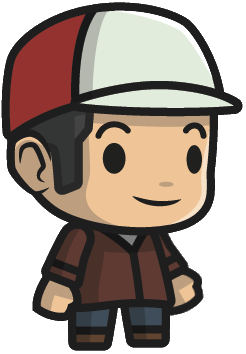
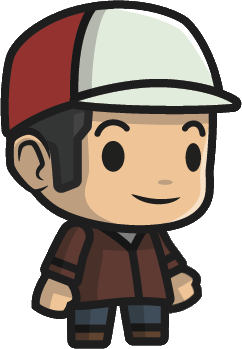
Running and idle animations implemented.

diff --git a/runnjump/core/src/com/mygdx/runnjump/screens/GameScreen.java b/runnjump/core/src/com/mygdx/runnjump/screens/GameScreen.java
@@ -24,6 +24,9 @@ import com.badlogic.gdx.utils.Array;
 import com.mygdx.runnjump.Runnjump;
 import com.mygdx.runnjump.game.Hud;
 import com.mygdx.runnjump.game.Player;
+import com.mygdx.runnjump.util.TextureManager;
+
+import java.util.ArrayList;
 
 public class GameScreen extends ScreenBase implements Screen, InputProcessor {
     //this will be the level screen.
@@ -38,12 +41,15 @@ public class GameScreen extends ScreenBase implements Screen, InputProcessor {
     OrthographicCamera orthographicCamera;
     Player player;
     float zoom;
-    Array<TextureAtlas.AtlasRegion> runningFrames;
+    float time =0f;
+    /*Array<TextureAtlas.AtlasRegion> runningFrames;
     Animation runningAnimation;
     float time = 0f;
     TextureRegion playerCurrentFrame;
-    float centerX, centerY;
-
+    float centerX, centerY;*/
+    int playerIdleLastFrame=0,playerRunLastFrame=0;
+    boolean backWardsIdle = false, backWardsRunning = false;
+    ArrayList<Texture> playerIdle, playerRunning;
     public GameScreen(Runnjump theGameO, int level) {
         super(theGameO);
         currentScreenId = Runnjump.ScreenEn.GAME;
@@ -81,7 +87,7 @@ public class GameScreen extends ScreenBase implements Screen, InputProcessor {
         TiledMapTileLayer visualLayer = (TiledMapTileLayer) tileMap.getLayers().get("secondLayer");
         hud = new Hud(new SpriteBatch(), theGame, skin);
 
-        player = new Player(new Sprite(new Texture("player\\Idle_000.png")),hud,layer,visualLayer);
+        player = new Player(hud,layer,visualLayer);
 
         layer.getHeight();
         player.getPlayerSprite().setPosition(5*32,79*32);//start position
@@ -94,13 +100,14 @@ public class GameScreen extends ScreenBase implements Screen, InputProcessor {
         tileMapHeight = properties.get("height", Integer.class);
         tileMapWidth = properties.get("width", Integer.class);
 
-
-        TextureAtlas playerRun = Runnjump.textureAtlasMap.get("player_running");
+        playerIdle = theGame.textureManager.getPlayerFrameSet("idle");
+        playerRunning = theGame.textureManager.getPlayerFrameSet("running");
+        /*TextureAtlas playerRun = Runnjump.textureAtlasMap.get("player_running");
         runningFrames = playerRun.findRegions("running");
         runningAnimation = new Animation(0.05f,runningFrames, Animation.PlayMode.LOOP);
         TextureRegion first = runningFrames.first();
         centerX = (Gdx.graphics.getWidth()-first.getRegionWidth());
-        centerY = (Gdx.graphics.getHeight()-first.getRegionHeight());
+        centerY = (Gdx.graphics.getHeight()-first.getRegionHeight());*/
 
     }
 
@@ -116,7 +123,37 @@ public class GameScreen extends ScreenBase implements Screen, InputProcessor {
         mapRenderer.setView(orthographicCamera);
         mapRenderer.render();
         mapRenderer.getBatch().begin();
-
+        time += delta;
+        if (player.isIdle() && time > 0.2f) {
+            player.setFrame(playerIdle.get(playerIdleLastFrame));
+            if (playerIdleLastFrame == playerIdle.size() - 1){
+                backWardsIdle=true;
+            }
+            if (playerIdleLastFrame==0){
+                backWardsIdle=false;
+            }
+            if (backWardsIdle){
+                playerIdleLastFrame--;
+            } else {
+                playerIdleLastFrame++;
+            }
+            time=0;
+        }
+        if (!player.isIdle() && time > 0.13f){
+            player.setFrame(playerRunning.get(playerRunLastFrame));
+            if (playerRunLastFrame==0){
+                backWardsRunning=false;
+            }
+            if (playerRunLastFrame == playerRunning.size()-1){//if at last element
+                backWardsRunning=true;
+            }
+            if (backWardsRunning){
+                playerRunLastFrame--;
+            } else {
+                playerRunLastFrame++;
+            }
+            time=0;
+        }
         player.draw(mapRenderer.getBatch());
         mapRenderer.getBatch().end();
 

diff --git a/runnjump/core/src/com/mygdx/runnjump/game/Player.java b/runnjump/core/src/com/mygdx/runnjump/game/Player.java
@@ -3,6 +3,7 @@ package com.mygdx.runnjump.game;
 import com.badlogic.gdx.Gdx;
 import com.badlogic.gdx.Input;
 import com.badlogic.gdx.InputProcessor;
+import com.badlogic.gdx.graphics.Texture;
 import com.badlogic.gdx.graphics.g2d.Animation;
 import com.badlogic.gdx.graphics.g2d.Batch;
 import com.badlogic.gdx.graphics.g2d.Sprite;
@@ -13,12 +14,15 @@ import com.badlogic.gdx.math.Vector2;
 import com.badlogic.gdx.utils.Array;
 import com.mygdx.runnjump.Runnjump;
 
+import java.util.ArrayList;
+import java.util.TreeMap;
+
 public class Player implements InputProcessor {
 
     //movement velocity
     private Vector2 velocity = new Vector2();
     private float speedX = 530;
-    private float speedY = 200;
+    private float speedY = 230;
     private float gravity = 98f;
     private TiledMapTileLayer collisionLayer;
     private TiledMapTileLayer visualLayer;
@@ -27,7 +31,7 @@ public class Player implements InputProcessor {
     boolean canJump;
     float sizeX,sizeY;
     Sprite playerSprite;
-
+    boolean facingRight = true;
 
     Hud hud;
 
@@ -44,8 +48,8 @@ public class Player implements InputProcessor {
         return score;
     }
 
-    public Player(Sprite sprite, Hud hud, TiledMapTileLayer collisionLayer, TiledMapTileLayer visualLayer){
-        this.playerSprite = sprite;
+    public Player( Hud hud, TiledMapTileLayer collisionLayer, TiledMapTileLayer visualLayer){
+        this.playerSprite = new Sprite(new Texture("player\\Idle_000.png"));
         this.collisionLayer = collisionLayer;
         this.visualLayer = visualLayer;
         playerSprite.setSize(30*2,30*3);//2 by 3 tiles size
@@ -54,12 +58,20 @@ public class Player implements InputProcessor {
         this.hearts =3;
         this.goldKeyAcquired = false;
         this.hud = hud;
-
-
     }
 
-    public void draw(Batch batch) {
+
+    public void setFrame(Texture texture){
+        playerSprite.setTexture(texture);
+    }
+    public void draw(Batch batch){
+        update(Gdx.graphics.getDeltaTime());
+        playerSprite.draw(batch);
+    }
+
+    public void draw(Batch batch,Texture frame) {
         update(Gdx.graphics.getDeltaTime());//updates before drawingl) {
+        playerSprite.setTexture(frame);
         playerSprite.draw(batch);
     }
 
@@ -226,9 +238,17 @@ public class Player implements InputProcessor {
                 break;
             case Input.Keys.D:
                 velocity.x = speedX;
+                if (!facingRight) {
+                    playerSprite.flip(true, false);
+                    facingRight=true;
+                }
                 break;
             case Input.Keys.A:
                 velocity.x = -speedX;
+                if(facingRight){
+                    playerSprite.flip(true, false);
+                    facingRight=false;
+                }
                 break;
 
         }
@@ -282,6 +302,13 @@ public class Player implements InputProcessor {
 
     public boolean isRunning() {
         if ((velocity.x >0.25f || velocity.x < -0.25f)&&(velocity.y < 0.25f&&velocity.y>-0.25)){
+            return true;
+        }
+        return false;
+    }
+
+    public boolean isIdle() {
+        if (!isRunning()){
             return true;
         }
         return false;

diff --git a/runnjump/core/src/com/mygdx/runnjump/util/TextureManager.java b/runnjump/core/src/com/mygdx/runnjump/util/TextureManager.java
@@ -1,16 +1,43 @@
 package com.mygdx.runnjump.util;
 
+import com.badlogic.gdx.Gdx;
 import com.badlogic.gdx.graphics.Texture;
+import com.badlogic.gdx.utils.Disposable;
 
 import java.util.ArrayList;
 import java.util.Random;
 import java.util.TreeMap;
 
-public class TextureManager {
-    public TreeMap<String, ArrayList<Texture>> playerFrames;
+public class TextureManager implements Disposable {
+    private TreeMap<String, ArrayList<Texture>> playerFrames;
     Random random;
     public TextureManager() {
         playerFrames = new TreeMap<>();
         random = new Random();
+    }
+
+    public void addPlayerFrameSet(String name,String path, int number){
+        ArrayList<Texture> textures = new ArrayList<>(); //texture paths must be of the  format NAME_0 + number.png)
+        for(int i = 0; i < number; i++){
+            if (i<=9){
+                textures.add(new Texture(Gdx.files.internal(path + "00" + String.valueOf(i) + ".png")));
+            } else {
+                textures.add(new Texture(Gdx.files.internal(path +"0"+ i + ".png")));
+            }
+        }
+        playerFrames.put(name, textures);
+    }
+
+    public ArrayList<Texture> getPlayerFrameSet(String name){
+        return playerFrames.get(name);
+    }
+
+    @Override
+    public void dispose() {
+        for (ArrayList<Texture> textureArray:playerFrames.values()) {
+            for(Texture texture: textureArray){
+                texture.dispose();
+            }
+        }
     }
 }

diff --git a/runnjump/core/src/com/mygdx/runnjump/screens/LoadingScreen.java b/runnjump/core/src/com/mygdx/runnjump/screens/LoadingScreen.java
@@ -4,16 +4,24 @@ import com.badlogic.gdx.Gdx;
 import com.badlogic.gdx.Screen;
 import com.badlogic.gdx.graphics.g2d.TextureAtlas;
 import com.mygdx.runnjump.Runnjump;
+import com.mygdx.runnjump.util.TextureManager;
 
 public class LoadingScreen extends ScreenBase implements Screen {
 
     public LoadingScreen(Runnjump theGameO) {
         super(theGameO);
     }
-    private void loadGraphics(){
-        TextureAtlas playerRunning = new TextureAtlas(Gdx.files.internal("player\\runningCharSet.atlas"));
 
-        Runnjump.textureAtlasMap.put("player_running", playerRunning);
+    private void loadPlayer(){
+        //idle
+        theGame.textureManager.addPlayerFrameSet("idle","player\\Idle_",12);
+        theGame.textureManager.addPlayerFrameSet("running","player\\Running_",12);
+    }
+    private void loadGraphics(){
+        //TextureAtlas playerRunning = new TextureAtlas(Gdx.files.internal("player\\runningCharSet.atlas"));
+
+        //Runnjump.textureAtlasMap.put("player_running", playerRunning);
+        loadPlayer();
     }
 
     private void loadSoundFX(){
@@ -23,6 +31,7 @@ public class LoadingScreen extends ScreenBase implements Screen {
         buttonClickFx[2] = "ui_button_simple_click_03.wav";
         buttonClickFx[3] = "ui_button_simple_click_04.wav";
         theGame.soundManager.addSoundSet("menu_button_click", buttonClickFx);
+
 
 
     }

diff --git a/runnjump/core/src/com/mygdx/runnjump/Runnjump.java b/runnjump/core/src/com/mygdx/runnjump/Runnjump.java
@@ -19,6 +19,7 @@ import com.mygdx.runnjump.screens.MenuScreen;
 import com.mygdx.runnjump.util.MusicManager;
 import com.mygdx.runnjump.util.SoundHandler;
 import com.mygdx.runnjump.util.SoundManager;
+import com.mygdx.runnjump.util.TextureManager;
 
 import java.util.TreeMap;
 
@@ -27,6 +28,7 @@ public class Runnjump extends Game {
 	//Texture campaignBt,survivalBt, highScoresBt;
 	public SoundManager soundManager;
 	public MusicManager musicManager;
+	public TextureManager textureManager;
 	public static TreeMap<String, TextureAtlas> textureAtlasMap;
 
 	public enum ScreenEn {
@@ -54,6 +56,7 @@ public class Runnjump extends Game {
 		loadingScreen = new LoadingScreen(this);
 		soundManager = new SoundManager();
 		musicManager = new MusicManager();
+		textureManager = new TextureManager();
 		textureAtlasMap = new TreeMap<>();
 		setScreen(loadingScreen);
 		Drawable soundOnIcon;

diff --git a/runnjump/core/src/com/mygdx/runnjump/util/SoundManager.java b/runnjump/core/src/com/mygdx/runnjump/util/SoundManager.java
@@ -4,12 +4,13 @@ import com.badlogic.gdx.Gdx;
 import com.badlogic.gdx.audio.Music;
 import com.badlogic.gdx.audio.Sound;
 import com.badlogic.gdx.files.FileHandle;
+import com.badlogic.gdx.utils.Disposable;
 
 import java.util.ArrayList;
 import java.util.Random;
 import java.util.TreeMap;
 
-public class SoundManager {
+public class SoundManager implements Disposable {
     //This class should be a singleton
     //Pass reference of this class to every screen.
     private TreeMap<String,Sound> soundMap;
@@ -55,7 +56,7 @@ public class SoundManager {
         Sound[] sounds = soundSet.get(name);
         sounds[random.nextInt(sounds.length)].play(volume);
     }
-
+    @Override
     public void dispose(){
         //disposes of all the sounds
         for (Sound sound: soundMap.values()) {

diff --git a/runnjump/core/src/com/mygdx/runnjump/util/MusicManager.java b/runnjump/core/src/com/mygdx/runnjump/util/MusicManager.java
@@ -4,13 +4,14 @@ import com.badlogic.gdx.Gdx;
 import com.badlogic.gdx.audio.Music;
 import com.badlogic.gdx.audio.Sound;
 import com.badlogic.gdx.files.FileHandle;
+import com.badlogic.gdx.utils.Disposable;
 
 import java.util.Random;
 import java.util.TreeMap;
 
 import sun.reflect.generics.tree.Tree;
 
-public class MusicManager {
+public class MusicManager implements Disposable {
     private TreeMap<String, Music> musicMap;
     private TreeMap<String, Music[]> musicSet;
     private float volume;
@@ -92,7 +93,7 @@ public class MusicManager {
         currentlyPlaying = null;
     }
 
-
+    @Override
     public void dispose() {
         //disposes of all the sounds
         for (Music music : musicMap.values()) {
